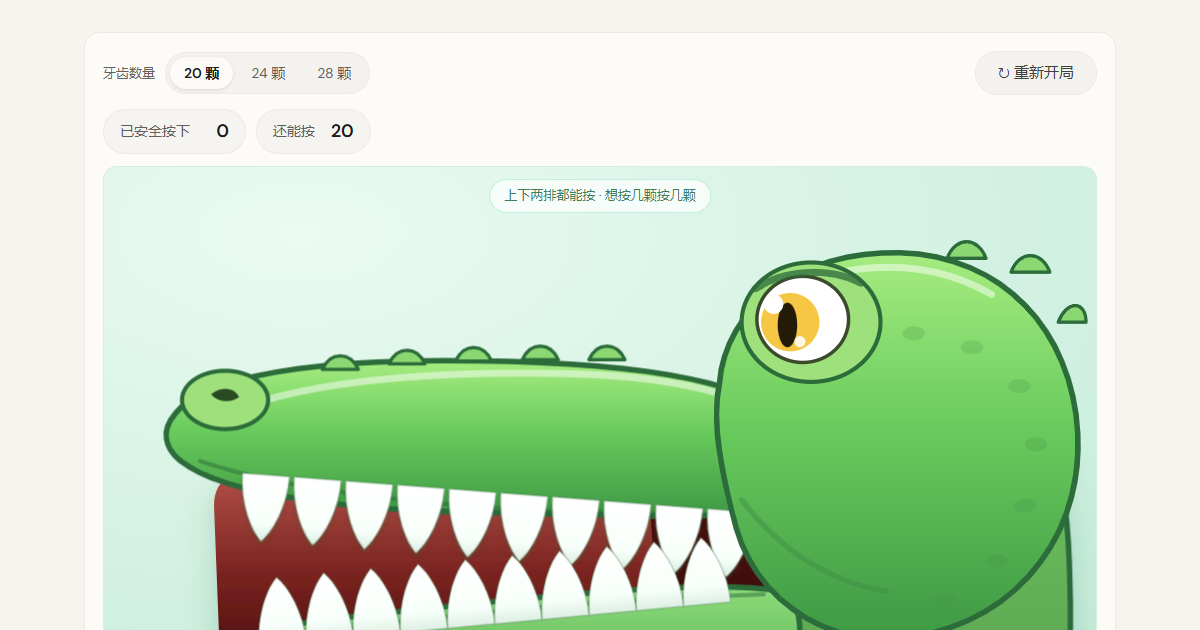
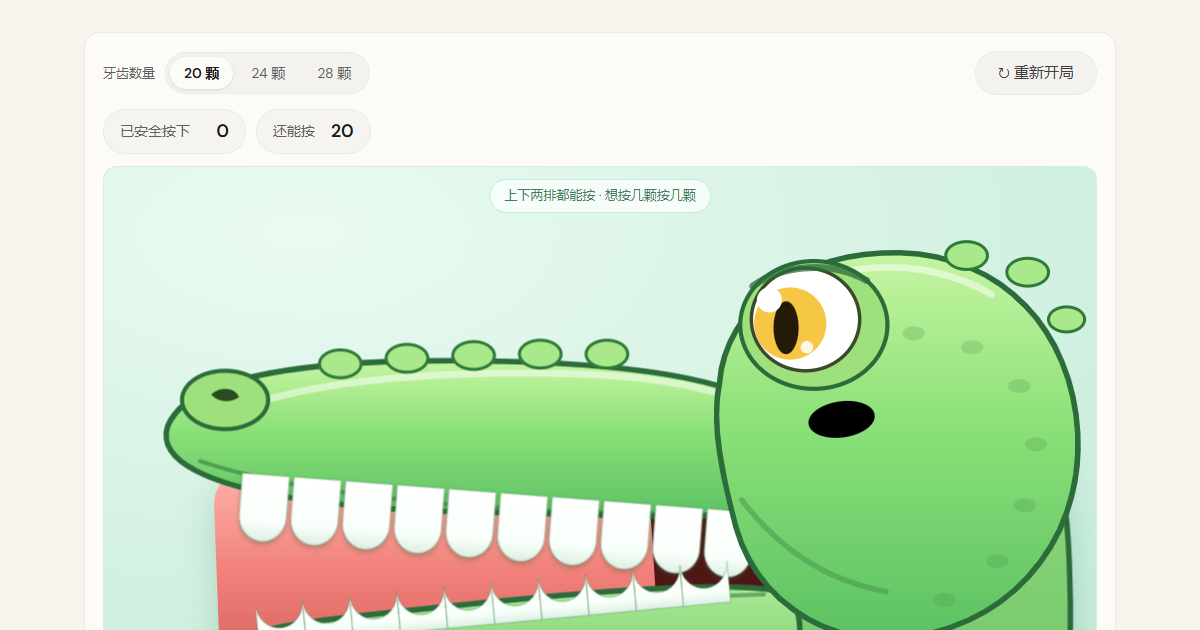
鳄鱼改为呆萌圆润亮色系，彻底移除点击焦点方框，按牙反馈更柔和

Changed region(s): [[0.1233, 0.3619, 0.925, 1.0]]

diff --git a/index.html b/index.html
@@ -103,31 +103,31 @@
         </div>
       </div>
 
-      <div class="stage" id="stage">
+      <div class="stage" id="stage" tabindex="0" aria-label="鳄鱼嘴巴，点牙齿或按方向键选择后回车">
         <div class="stage-hint" id="stageHint">上下两排都能按 · 想按几颗按几颗</div>
 
         <svg id="croc" class="croc" viewBox="0 0 700 470" role="img" aria-label="张嘴的卡通鳄鱼">
           <defs>
             <linearGradient id="gBody" x1="0" y1="0" x2="0" y2="1">
-              <stop offset="0" stop-color="#A6EC80"/><stop offset="0.45" stop-color="#69CB5D"/><stop offset="1" stop-color="#3E9944"/>
+              <stop offset="0" stop-color="#C6F5A2"/><stop offset="0.45" stop-color="#8BE078"/><stop offset="1" stop-color="#5CC263"/>
             </linearGradient>
             <linearGradient id="gLower" x1="0" y1="0" x2="0" y2="1">
-              <stop offset="0" stop-color="#8CDB7A"/><stop offset="0.55" stop-color="#5FB457"/><stop offset="1" stop-color="#459246"/>
+              <stop offset="0" stop-color="#A9E995"/><stop offset="0.55" stop-color="#79CE6E"/><stop offset="1" stop-color="#5BB45C"/>
             </linearGradient>
             <linearGradient id="gNeck" x1="0" y1="0" x2="0" y2="1">
-              <stop offset="0" stop-color="#7ACB68"/><stop offset="1" stop-color="#4A9445"/>
+              <stop offset="0" stop-color="#9BE084"/><stop offset="1" stop-color="#63BB60"/>
             </linearGradient>
             <linearGradient id="gMouth" x1="0" y1="0" x2="0" y2="1">
-              <stop offset="0" stop-color="#B4524A"/><stop offset="0.5" stop-color="#7A2320"/><stop offset="1" stop-color="#420C0A"/>
+              <stop offset="0" stop-color="#FFB3AC"/><stop offset="0.5" stop-color="#F08079"/><stop offset="1" stop-color="#D25E59"/>
             </linearGradient>
             <linearGradient id="gTongue" x1="0" y1="0" x2="0" y2="1">
-              <stop offset="0" stop-color="#FFA79C"/><stop offset="1" stop-color="#EF6B6A"/>
+              <stop offset="0" stop-color="#FFC9C2"/><stop offset="1" stop-color="#F8908C"/>
             </linearGradient>
             <linearGradient id="gTooth" x1="0" y1="0" x2="0" y2="1">
               <stop offset="0" stop-color="#FFFFFF"/><stop offset="0.72" stop-color="#F8FFFA"/><stop offset="1" stop-color="#DDEFE3"/>
             </linearGradient>
             <linearGradient id="gBelly" x1="0" y1="0" x2="0" y2="1">
-              <stop offset="0" stop-color="#F2FDDA"/><stop offset="1" stop-color="#CEEAA6"/>
+              <stop offset="0" stop-color="#FBFFEE"/><stop offset="1" stop-color="#DDF3BC"/>
             </linearGradient>
             <linearGradient id="gEye" x1="0" y1="0" x2="1" y2="1">
               <stop offset="0" stop-color="#FFEFAE"/><stop offset="1" stop-color="#EFB43A"/>
@@ -156,7 +156,7 @@
 
             <!-- 口腔 -->
             <path class="mouth" d="M470 248 C400 240 258 220 112 212 C88 209 72 218 72 238 L76 340 C77 358 90 366 110 362 C262 346 400 318 470 296 Z"/>
-            <path class="throat" d="M470 248 C440 244 408 240 386 238 L392 330 C420 326 448 308 470 296 Z"/>
+            <path class="throat" d="M470 248 C440 244 408 240 386 238 L392 330 C420 326 448 308 470 296 Z" opacity="0.55"/>
           </g>
 
           <!-- 上颚 -->
@@ -164,11 +164,11 @@
             <path class="jaw-up" d="M470 166 C430 142 340 132 210 134 C126 136 62 148 44 172 C34 184 36 196 48 206 C76 228 148 238 226 242 L400 246 C440 247 468 240 484 224 L486 190 C486 178 478 170 470 166 Z"/>
             <path class="rim" d="M74 176 C124 149 224 141 322 143 C380 144 430 151 466 169"/>
             <g class="scutes">
-              <path d="M150 140 C156 127 170 127 176 140 Z"/>
-              <path d="M198 136 C204 123 218 123 224 136 Z"/>
-              <path d="M246 134 C252 121 266 121 272 134 Z"/>
-              <path d="M294 133 C300 120 314 120 320 133 Z"/>
-              <path d="M342 133 C348 120 362 120 368 133 Z"/>
+              <ellipse cx="163" cy="136" rx="15" ry="10"/>
+              <ellipse cx="211" cy="132" rx="15" ry="10"/>
+              <ellipse cx="259" cy="130" rx="15" ry="10"/>
+              <ellipse cx="307" cy="129" rx="15" ry="10"/>
+              <ellipse cx="355" cy="129" rx="15" ry="10"/>
             </g>
             <ellipse class="nostril-bump" cx="80" cy="162" rx="31" ry="21"/>
             <path class="nostril" d="M70 158 C77 152 87 153 90 160 C83 165 74 163 70 158 Z"/>
@@ -204,17 +204,18 @@
               <ellipse cx="636" cy="278" rx="8" ry="5"/><ellipse cx="598" cy="306" rx="8" ry="5"/>
             </g>
             <g class="scutes">
-              <path d="M600 60 C606 44 622 44 628 60 Z"/>
-              <path d="M646 70 C652 54 668 54 674 70 Z"/>
-              <path d="M680 106 C686 90 700 90 700 106 Z"/>
+              <ellipse cx="614" cy="58" rx="15" ry="10"/>
+              <ellipse cx="658" cy="70" rx="15" ry="10"/>
+              <ellipse cx="686" cy="104" rx="13" ry="9"/>
             </g>
-            <ellipse class="eye-bump" cx="502" cy="106" rx="50" ry="43"/>
-            <ellipse class="eye-white" cx="496" cy="104" rx="33" ry="31"/>
-            <ellipse class="iris" cx="487" cy="106" rx="21" ry="21" fill="url(#gEye)"/>
-            <ellipse class="pupil" cx="485" cy="108" rx="7" ry="16"/>
-            <circle class="shine" cx="475" cy="93" r="7"/>
-            <circle class="shine small" cx="494" cy="120" r="4"/>
-            <path class="eyelid" d="M462 82 C482 68 516 66 538 78"/>
+            <ellipse class="eye-bump" cx="504" cy="108" rx="53" ry="46"/>
+            <ellipse class="eye-white" cx="498" cy="104" rx="39" ry="37"/>
+            <ellipse class="iris" cx="487" cy="107" rx="26" ry="26" fill="url(#gEye)"/>
+            <ellipse class="pupil" cx="484" cy="110" rx="9" ry="19"/>
+            <circle class="shine" cx="472" cy="90" r="9"/>
+            <circle class="shine small" cx="499" cy="124" r="4.5"/>
+            <path class="eyelid" d="M460 80 C482 64 518 62 542 76"/>
+            <ellipse class="blush" cx="524" cy="176" rx="24" ry="13" transform="rotate(-8 524 176)"/>
           </g>
         </svg>
 

diff --git a/game.js b/game.js
@@ -78,13 +78,18 @@
 
   /* ---------------- 建牙 ---------------- */
   function toothPath(w, h, pointsDown) {
+    // 圆润的“小胖牙”：根部平、前端半圆，看起来更呆萌
+    var half = w / 2;
+    var round = h * 0.62;
     var d = '';
     if (pointsDown) {
-      d = 'M ' + (-w / 2) + ' 0 C ' + (-w / 2) + ' ' + (h * 0.45) + ', ' + (-w * 0.22) + ' ' + (h * 0.86) + ', 0 ' + h +
-          ' C ' + (w * 0.22) + ' ' + (h * 0.86) + ', ' + (w / 2) + ' ' + (h * 0.45) + ', ' + (w / 2) + ' 0 Z';
+      d = 'M ' + (-half) + ' 0 L ' + (-half) + ' ' + round +
+          ' A ' + half + ' ' + (h - round) + ' 0 0 0 ' + half + ' ' + round +
+          ' L ' + half + ' 0 Z';
     } else {
-      d = 'M ' + (-w / 2) + ' 0 C ' + (-w / 2) + ' ' + (-h * 0.45) + ', ' + (-w * 0.22) + ' ' + (-h * 0.86) + ', 0 ' + (-h) +
-          ' C ' + (w * 0.22) + ' ' + (-h * 0.86) + ', ' + (w / 2) + ' ' + (-h * 0.45) + ', ' + (w / 2) + ' 0 Z';
+      d = 'M ' + (-half) + ' 0 L ' + (-half) + ' ' + (-round) +
+          ' A ' + half + ' ' + (h - round) + ' 0 0 0 ' + half + ' ' + (-round) +
+          ' L ' + half + ' 0 Z';
     }
     return d;
   }
@@ -118,9 +123,6 @@
       var g = document.createElementNS(SVG_NS, 'g');
       g.setAttribute('class', 'tooth-wrap' + (pointsDown ? '' : ' down'));
       g.setAttribute('transform', 'translate(' + x.toFixed(1) + ',' + y.toFixed(1) + ') rotate(' + angle.toFixed(2) + ')');
-      g.setAttribute('role', 'button');
-      g.setAttribute('tabindex', '0');
-      g.setAttribute('aria-label', label + '第 ' + (i + 1) + ' 颗牙');
 
       // 透明整格点击区（手机上更好点）
       var hit = document.createElementNS(SVG_NS, 'rect');
@@ -187,6 +189,8 @@
 
     updateHud();
     stageHint.textContent = '上下两排都能按 · 想按几颗按几颗';
+    cursor.row = 0;
+    cursor.col = 0;
   }
 
   /* ---------------- 交互 ---------------- */
@@ -209,6 +213,34 @@
       if (navigator.vibrate) { try { navigator.vibrate(12); } catch (e) {} }
       updateHud();
     }
+  }
+
+  var cursor = { row: 0, col: 0 };
+
+  function rowCounts() {
+    var up = 0;
+    state.cells.forEach(function (c) { if (c.pointsDown) up++; });
+    return { up: up, down: state.cells.length - up };
+  }
+
+  function cursorCell() {
+    var rc = rowCounts();
+    if (cursor.row === 0) return state.cells[Math.min(cursor.col, rc.up - 1)];
+    return state.cells[rc.up + Math.min(cursor.col, rc.down - 1)];
+  }
+
+  function refreshCursor() {
+    state.cells.forEach(function (c) { c.wrap.classList.remove('cursor'); });
+    var cell = cursorCell();
+    if (cell) cell.wrap.classList.add('cursor');
+  }
+
+  function moveCursor(dRow, dCol) {
+    var rc = rowCounts();
+    cursor.row = Math.max(0, Math.min(1, cursor.row + dRow));
+    var max = cursor.row === 0 ? rc.up : rc.down;
+    cursor.col = Math.max(0, Math.min(max - 1, cursor.col + dCol));
+    refreshCursor();
   }
 
   function bite() {
@@ -247,14 +279,25 @@
     if (!wrap) return;
     var cell = state.cells.filter(function (c) { return c.wrap === wrap; })[0];
     pressCell(cell);
-    if (e.type === 'click' && wrap.blur) wrap.blur();
+    if (e.type === 'click') {
+      if (wrap.blur) wrap.blur();
+      if (document.activeElement && document.activeElement.blur) document.activeElement.blur();
+    }
     e.preventDefault();
   }
 
   croc.addEventListener('click', onToothActivate);
-  croc.addEventListener('keydown', function (e) {
-    if (e.key !== 'Enter' && e.key !== ' ' && e.key !== 'Spacebar') return;
-    onToothActivate(e);
+
+  stage.addEventListener('keydown', function (e) {
+    var k = e.key;
+    if (k === 'ArrowLeft') { moveCursor(0, -1); e.preventDefault(); return; }
+    if (k === 'ArrowRight') { moveCursor(0, 1); e.preventDefault(); return; }
+    if (k === 'ArrowUp') { moveCursor(-1, 0); e.preventDefault(); return; }
+    if (k === 'ArrowDown') { moveCursor(1, 0); e.preventDefault(); return; }
+    if (k === 'Enter' || k === ' ' || k === 'Spacebar') {
+      pressCell(cursorCell());
+      e.preventDefault();
+    }
   });
 
   teethSeg.addEventListener('click', function (e) {

diff --git a/styles.css b/styles.css
@@ -140,7 +140,7 @@ strong{font-weight:600;color:var(--charcoal);}
   border:1px solid rgba(47,191,143,.25);border-radius:999px;padding:6px 14px;white-space:nowrap;
   z-index:3;pointer-events:none;
 }
-.croc{display:block;width:100%;height:auto;overflow:visible;position:relative;z-index:2;}
+.croc{display:block;width:100%;height:auto;overflow:visible;position:relative;z-index:2;user-select:none;-webkit-user-select:none;}\n.stage{outline:none;}\n.stage:focus,.stage:focus-visible{outline:none !important;}\nsvg *{outline:none !important;}
 
 /* 鳄鱼配色与描边 */
 .neck{fill:url(#gNeck);stroke:#2c6b3a;stroke-width:4;}
@@ -167,7 +167,7 @@ strong{font-weight:600;color:var(--charcoal);}
 .croc-shadow{fill:#1f5b34;opacity:.14;}
 .rim{fill:none;stroke:rgba(255,255,255,.5);stroke-width:5;stroke-linecap:round;}
 .dots ellipse{fill:#3f8c45;opacity:.22;}
-.scutes path{fill:#8bd873;stroke:#2c6b3a;stroke-width:2.4;stroke-linejoin:round;}
+.scutes ellipse{fill:#A9E98C;stroke:#2f7a38;stroke-width:2.2;}\n.blush{fill:#FFAFA3;opacity:.72;}\n.tooth-wrap.cursor .tooth{filter:drop-shadow(0 0 6px rgba(47,191,143,.95));}
 .cheek{fill:none;stroke:#3f8c45;stroke-width:4;opacity:.45;stroke-linecap:round;}
 .lip{fill:none;stroke:#2c6b3a;stroke-width:3;opacity:.5;stroke-linecap:round;}
 .eyelid{fill:none;stroke:#2c6b3a;stroke-width:5;stroke-linecap:round;opacity:.75;}
@@ -176,7 +176,7 @@ strong{font-weight:600;color:var(--charcoal);}
 /* 牙齿 */
 .tooth{
   fill:url(#gTooth);
-  stroke:rgba(70,120,80,.3);
+  stroke:rgba(80,140,95,.28);
   stroke-width:1.2;
   transform-box:fill-box;
   transform-origin:50% 0%;
@@ -268,7 +268,7 @@ strong{font-weight:600;color:var(--charcoal);}
 .croc .deco,.croc .neck,.croc .mouth,.croc .throat,.croc .tongue,.croc .skull,
 .croc .skull-gloss,.croc .scute,.croc .nostril-bump,.croc .nostril,.croc .gloss,
 .croc .belly,.croc .eye-bump,.croc .eye-white,.croc .iris,.croc .pupil,.croc .shine,
-.croc .brow,.croc .jaw-up,.croc .jaw-low,.croc .croc-shadow,.croc .rim,.croc .cheek,.croc .lip,.croc .eyelid,.croc .dots ellipse,.croc .scutes path{pointer-events:none;}
+.croc .brow,.croc .jaw-up,.croc .jaw-low,.croc .croc-shadow,.croc .rim,.croc .cheek,.croc .lip,.croc .eyelid,.croc .dots ellipse,.croc .scutes ellipse,.croc .scutes path,.croc .blush{pointer-events:none;}
 .croc{-webkit-tap-highlight-color:transparent;}
 .croc .tooth{pointer-events:none;}
 .croc .tooth-wrap{pointer-events:all;cursor:pointer;touch-action:manipulation;outline:none !important;}
